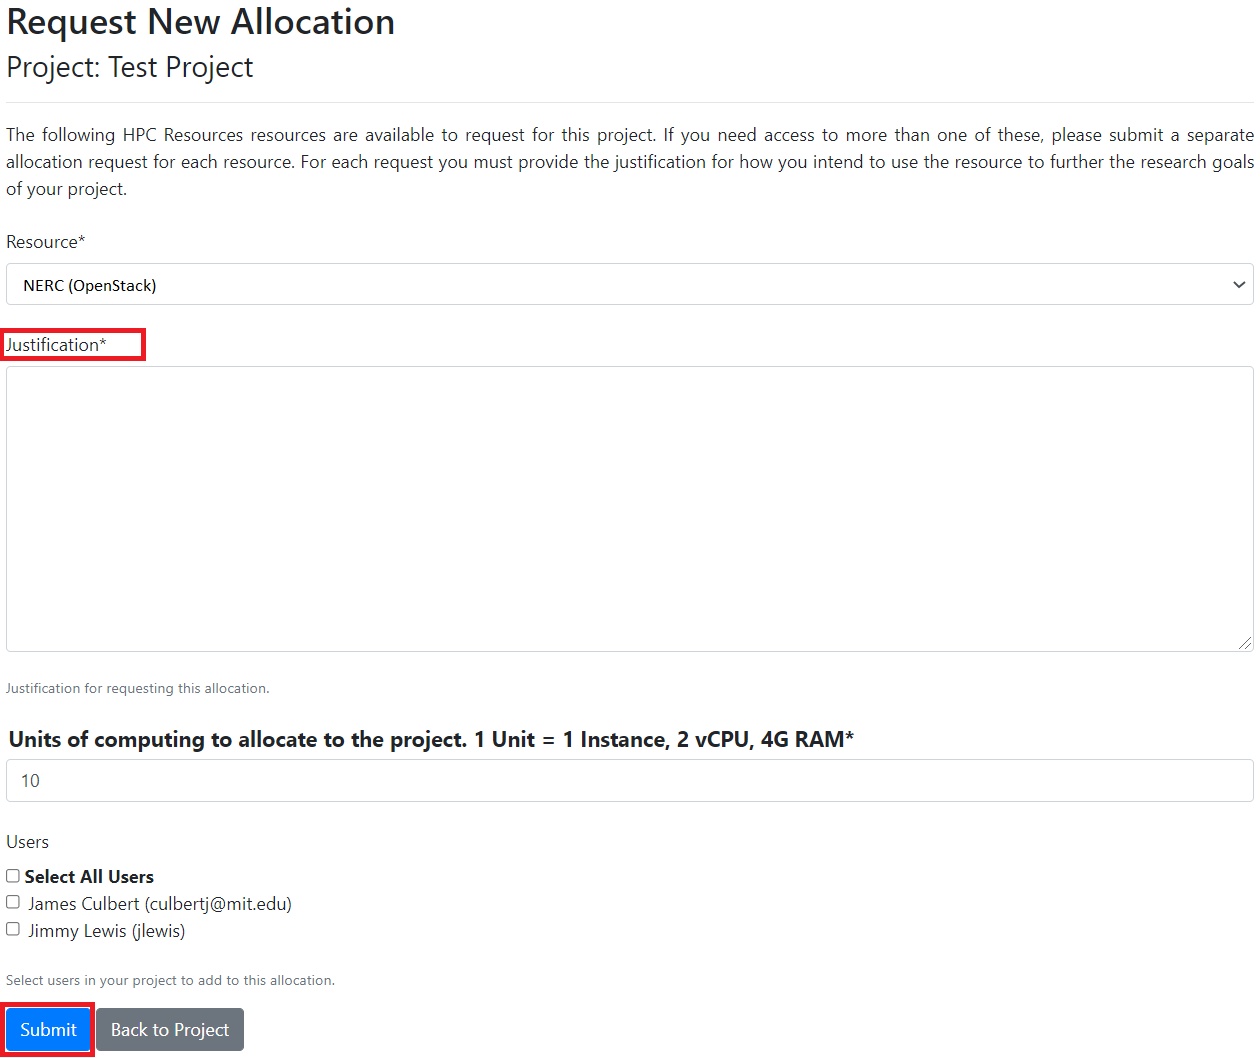
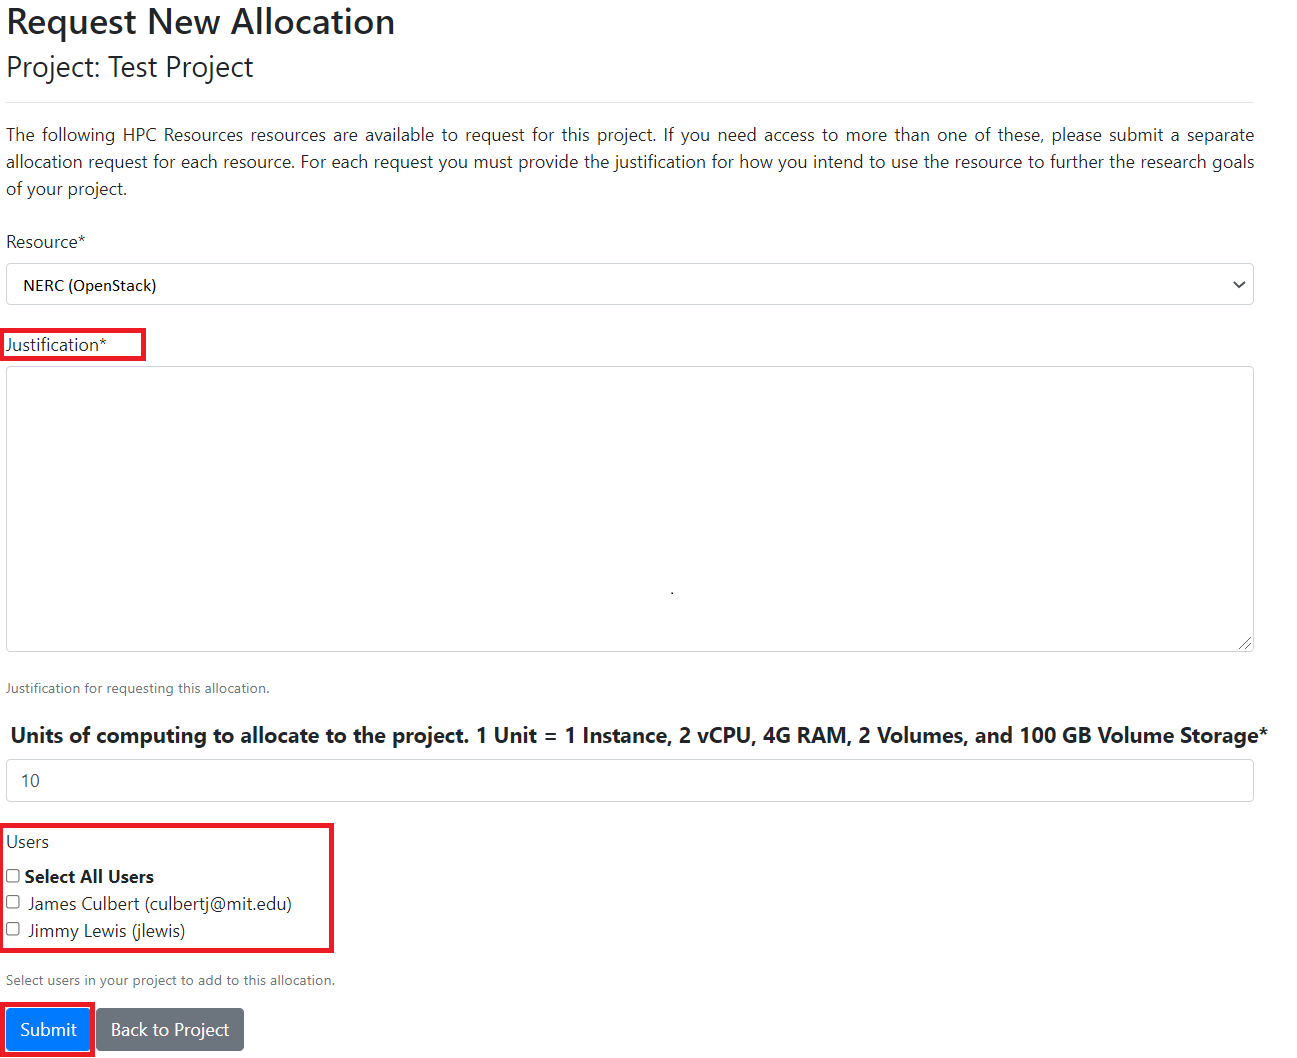
added more information about Quota Units and update unit label's screenshots

diff --git a/docs/get-started/get-an-allocation.md b/docs/get-started/get-an-allocation.md
@@ -78,7 +78,13 @@ integer value that corresponds to multiple openstack resource quotas. For exampl
 | `Instances`           | 1                                     |
 | `vCPUs`               | 2                                     |
 | `RAM`                 | 4096                                  |
-| `Volumes`             | 1                                     |
+| `Volumes`             | 2                                     |
+| `Volume Storage(GB)`  | 100                                   |
+
+!!!info "Information"
+    By default, **2 OpenStack Floating IPs**, **10 Volume Snapshots** and **10 Security
+    Groups** are provided to each approved projects regardless of units of requested
+    quota units.
 
 ## Adding and removing User from the Project
 
